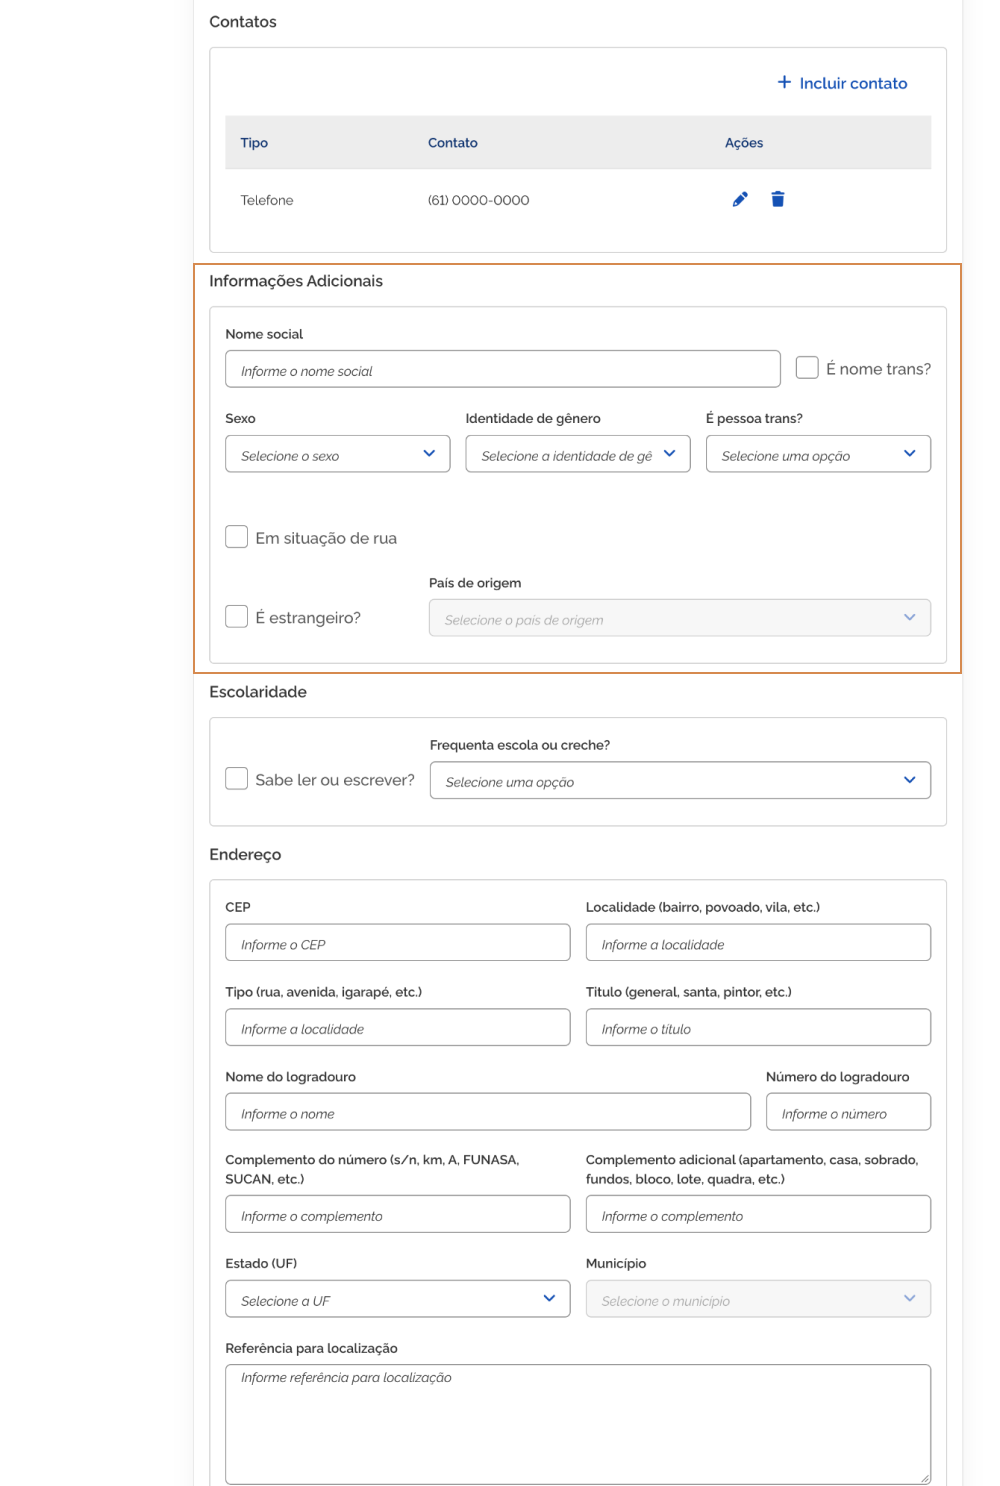
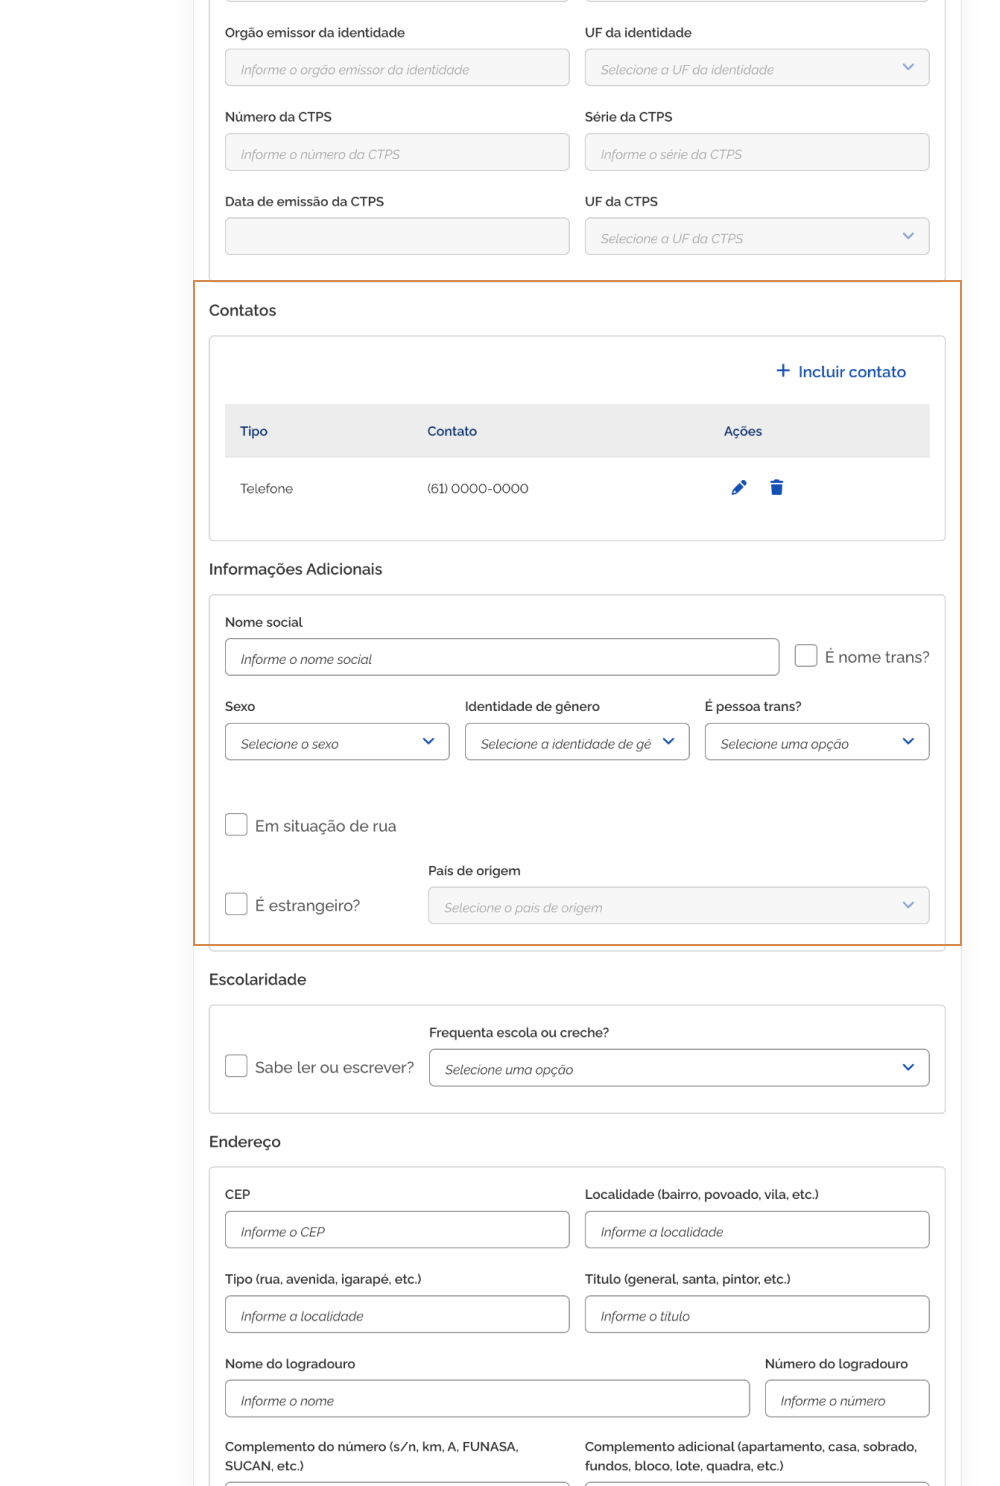
executado ate pagina 150

diff --git a/prontuario-dataprev/manual-markdown-quarto/completo.html b/prontuario-dataprev/manual-markdown-quarto/completo.html
@@ -5392,6 +5392,7 @@ Para retrair ou reexibir as informações contidas no bloco, acione o <kbd>4</kb
 </figure>
 </div>
 <h2 id="extra-cadastro-sem-cpf-consulta-avançada-7">Extra cadastro sem CPF (Consulta avançada)</h2>
+<h3 id="informações-familiares-continuação-1">Informações familiares (continuação)</h3>
 <ul>
 <li><strong>Cancelar</strong> – cancela a ação e retornar a tela de consulta Buscar pessoa no CadÚnico;</li>
 <li><strong>Concluir</strong> – acione a opção Incluir para salvar o extra cadastro.</li>
@@ -5465,7 +5466,7 @@ Para retrair ou reexibir as informações contidas no bloco, acione o <kbd>4</kb
 </div>
 <h2 id="gerenciar-família-1">Gerenciar família</h2>
 <p>Acione a opção <kbd>5</kbd> <strong>Dados Familiares</strong> para atualizar os dados da família.</p>
-<p>Acione a opção <kbd>6</kbd> <strong>Incluir membro</strong> para incluir membro a composição familiar (apresenta a funcionalidade <strong>Consultar pessoa</strong>, descrita na página <strong>17</strong>)</p>
+<p>Acione a opção <kbd>6</kbd> <strong>Incluir membro</strong> para incluir membro a composição familiar (apresenta a funcionalidade <strong>Consultar pessoa</strong>, descrita na página <a href="#realizar-atendimento">19</a>)</p>
 <h3 id="lista-de-membros-da-composição-familiar">Lista de membros da composição familiar</h3>
 <ul>
 <li><strong>Nome</strong> – coluna que apresenta o nome do membro;</li>
@@ -5501,11 +5502,12 @@ Para retrair ou reexibir as informações contidas no bloco, acione o <kbd>4</kb
 <figcaption>Alterar Dados da Família</figcaption>
 </figure>
 </div>
+<h2 id="gerenciar-família-2">Gerenciar família</h2>
 <h3 id="alterar-dados-da-família">Alterar Dados da Família</h3>
 <p>Para alterar os dados da família, acione a opção <kbd>5</kbd> <strong>Dados Familiares</strong>, o sistema apresentará a janela Alterar família.</p>
 <div class="quarto-figure quarto-figure-center">
 <figure>
-<p><img src="img/extra-cadastro-modal-2.png" class="w-60"></p>
+<p><img src="img/extra-cadastro-modal-2.png" class="w-5"></p>
 <figcaption>Alterar família modal</figcaption>
 </figure>
 </div>

diff --git a/prontuario-dataprev/manual-markdown-quarto/completo.md b/prontuario-dataprev/manual-markdown-quarto/completo.md
@@ -3872,6 +3872,8 @@ Após a inclusão, os contatos são exibidos em lista com as seguintes informaç
 
 ## Extra cadastro sem CPF (Consulta avançada)
 
+### Informações familiares (continuação)
+
 - **Cancelar** – cancela a ação e retornar a tela de consulta Buscar pessoa no CadÚnico; 
 - **Concluir** – acione a opção Incluir para salvar o extra cadastro. 
 
@@ -3925,7 +3927,7 @@ Para detalhar, atualizar e adicionar novos membros à família, acione o menu <k
 
 Acione a opção <kbd>5</kbd> **Dados Familiares** para atualizar os dados da família.
 
-Acione a opção <kbd>6</kbd> **Incluir membro** para incluir membro a composição familiar (apresenta a funcionalidade **Consultar pessoa**, descrita na página **17**)
+Acione a opção <kbd>6</kbd> **Incluir membro** para incluir membro a composição familiar (apresenta a funcionalidade **Consultar pessoa**, descrita na página [19](#realizar-atendimento))
 
 ### Lista de membros da composição familiar
 
@@ -3949,11 +3951,13 @@ Acione a opção <kbd>6</kbd> **Incluir membro** para incluir membro a composiç
 
 ![Alterar Dados da Família](img/extra-cadastro-17.png){.img-pagina}
 
+## Gerenciar família
+
 ### Alterar Dados da Família
 
 Para alterar os dados da família, acione a opção <kbd>5</kbd> **Dados Familiares**, o sistema apresentará a janela Alterar família.
 
-![Alterar família modal](img/extra-cadastro-modal-2.png){.w-60}
+![Alterar família modal](img/extra-cadastro-modal-2.png){.w-5}
 
 ### Endereço
 
